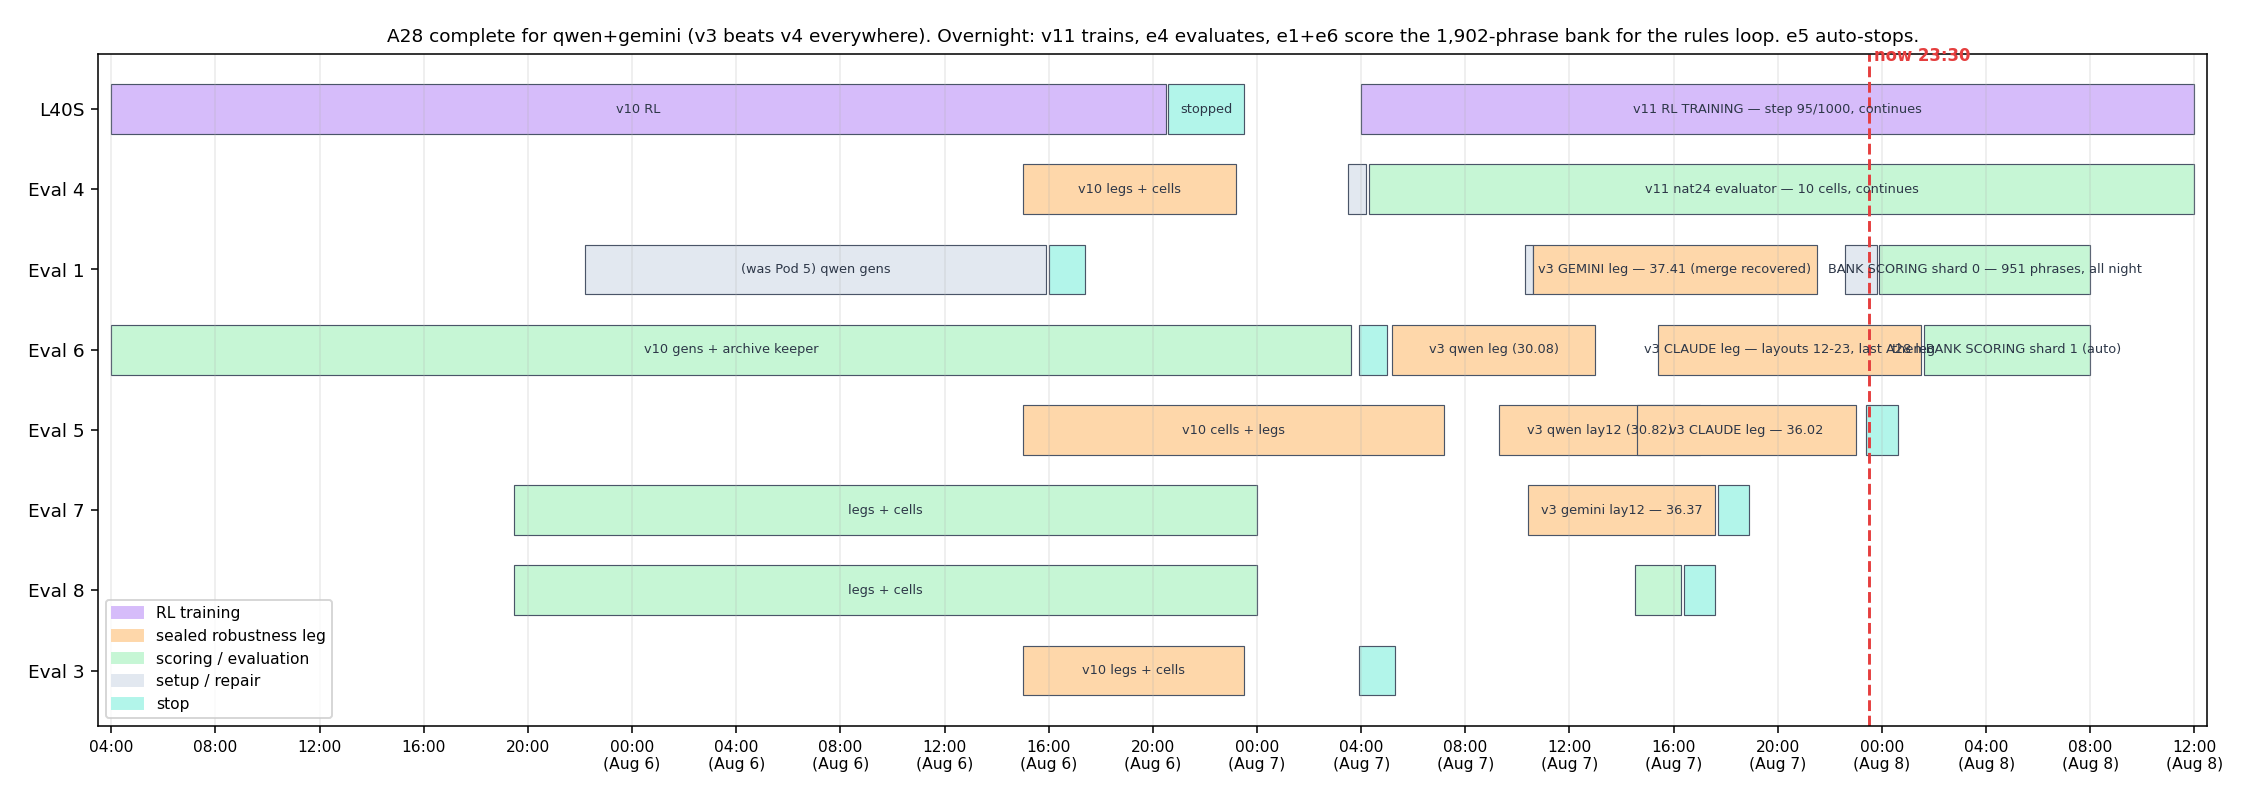
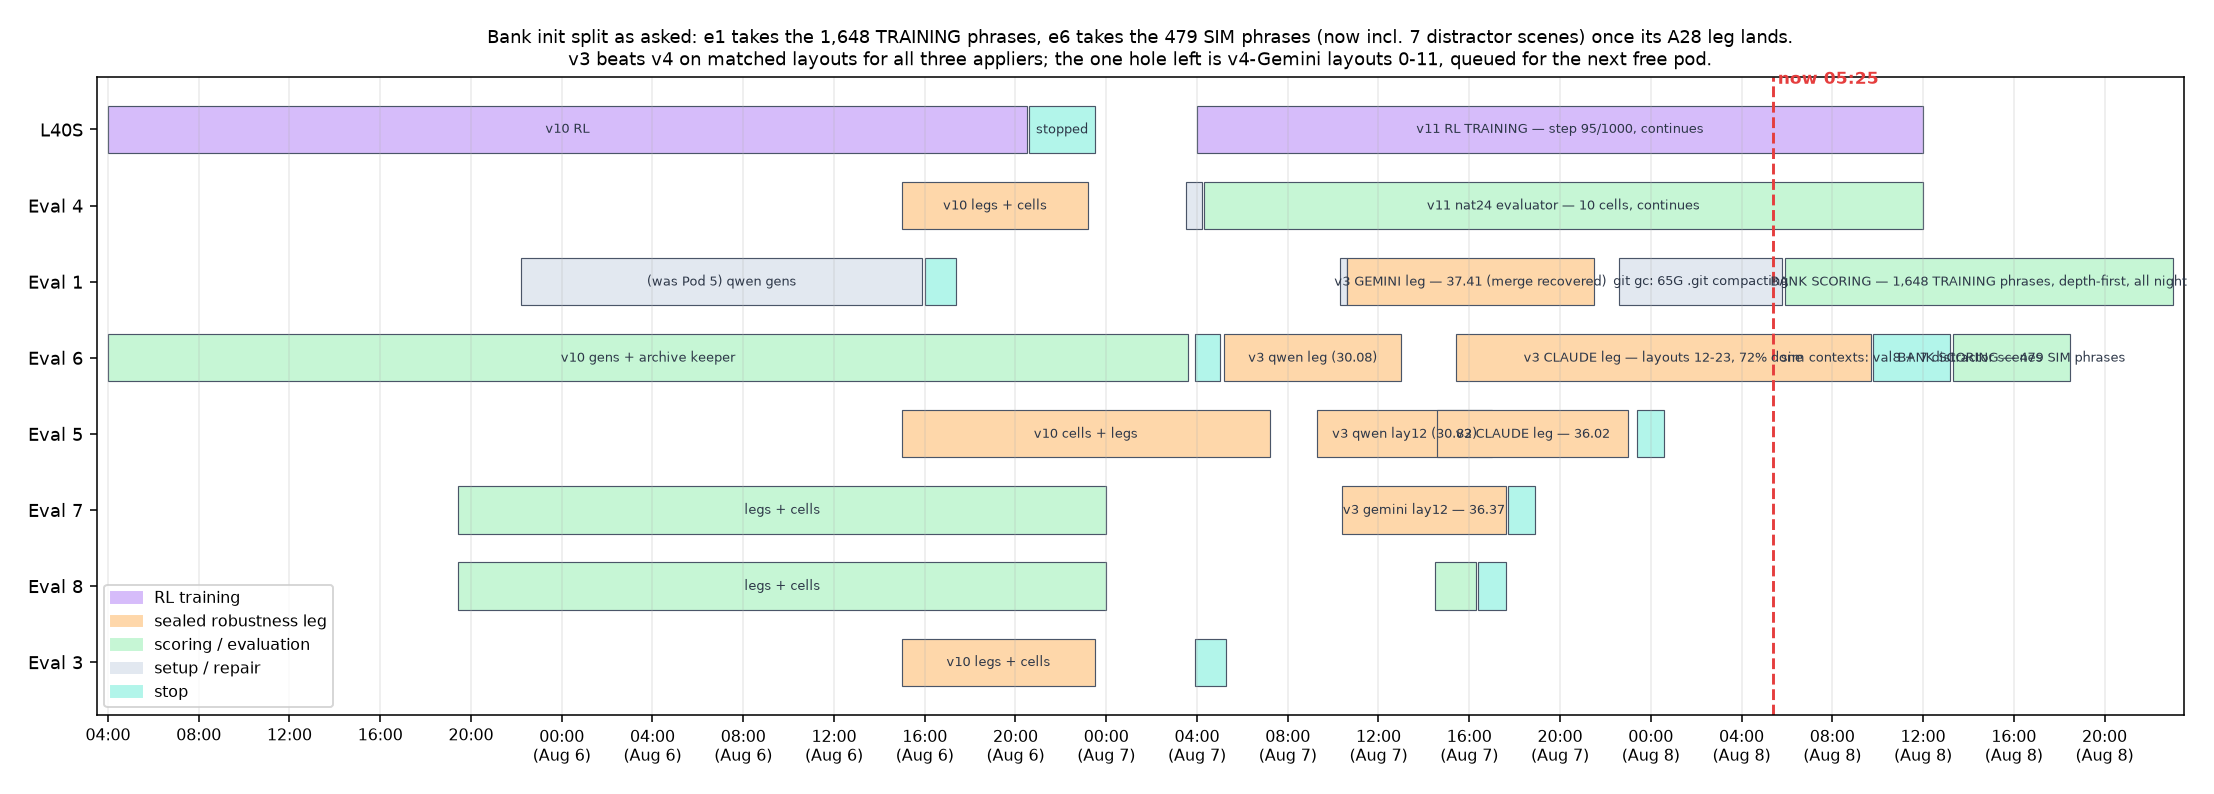
gantt: bank init split train/sim across e1 and e6, sim leg picks up the distractor scenes

diff --git a/scripts/make_fleet_gantt.py b/scripts/make_fleet_gantt.py
@@ -9,7 +9,7 @@ from matplotlib.patches import Patch
 
 C = {"sealed": "#a3bffa", "rr": "#fed7aa", "gen": "#b2f5ea",
      "train": "#d6bcfa", "worker": "#c6f6d5", "setup": "#e2e8f0"}
-NOW = 71.5  # 23:30 Aug 7 (hours from 00:00 Aug 5)
+NOW = 77.4  # 05:25 Aug 8 UTC (hours from 00:00 Aug 5)
 
 ROWS = [
     ("L40S",    [("v10 RL", 4.0, 44.5, "train"), ("stopped", 44.6, 47.5, "gen"),
@@ -19,16 +19,17 @@ ROWS = [
     ("Eval 1",  [("(was Pod 5) qwen gens", 22.2, 39.9, "setup"), ("retired", 40.0, 41.4, "gen"),
                  ("repair + disk rescue", 58.3, 58.6, "setup"),
                  ("v3 GEMINI leg — 37.41 (merge recovered)", 58.6, 69.5, "rr"),
-                 ("git gc: 24G archives + 47G .git", 70.6, 71.8, "setup"),
-                 ("BANK SCORING shard 0 — 951 phrases, all night", 71.9, 80.0, "worker")]),
+                 ("git gc: 65G .git compacting", 70.6, 77.8, "setup"),
+                 ("BANK SCORING — 1,648 TRAINING phrases, depth-first, all night", 77.9, 95.0, "worker")]),
     ("Eval 6",  [("v10 gens + archive keeper", 4.0, 51.6, "worker"), ("stopped", 51.9, 53.0, "gen"),
                  ("v3 qwen leg (30.08)", 53.2, 61.0, "rr"),
-                 ("v3 CLAUDE leg — layouts 12-23, last A28 leg", 63.4, 73.5, "rr"),
-                 ("then BANK SCORING shard 1 (auto)", 73.6, 80.0, "worker")]),
+                 ("v3 CLAUDE leg — layouts 12-23, 72% done", 63.4, 81.7, "rr"),
+                 ("sim contexts: val8 + 7 distractor scenes", 81.8, 85.2, "gen"),
+                 ("BANK SCORING — 479 SIM phrases", 85.3, 90.5, "worker")]),
     ("Eval 5",  [("v10 cells + legs", 39.0, 55.2, "rr"),
                  ("v3 qwen lay12 (30.82)", 57.3, 65.0, "rr"),
                  ("v3 CLAUDE leg — 36.02", 62.6, 71.0, "rr"),
-                 ("auto-stop (nothing left)", 71.4, 72.6, "gen")]),
+                 ("STOPPED (auto)", 71.4, 72.6, "gen")]),
     ("Eval 7",  [("legs + cells", 19.45, 48.0, "worker"),
                  ("v3 gemini lay12 — 36.37", 58.4, 65.6, "rr"), ("STOPPED", 65.7, 66.9, "gen")]),
     ("Eval 8",  [("legs + cells", 19.45, 48.0, "worker"),
@@ -44,20 +45,22 @@ for i, (pod, bars) in enumerate(ROWS):
         if e - s > 2.6:
             ax.text((s + e) / 2, y, label, ha="center", va="center", fontsize=6.6, color="#2d3748")
 ax.axvline(NOW, color="#e53e3e", lw=1.5, ls="--")
-ax.text(NOW + 0.2, len(ROWS) - 0.4, "now 23:30", color="#e53e3e", fontsize=8.5, fontweight="bold")
+ax.text(NOW + 0.2, len(ROWS) - 0.4, "now 05:25", color="#e53e3e", fontsize=8.5, fontweight="bold")
 ax.set_yticks(range(len(ROWS)))
 ax.set_yticklabels([p for p, _ in reversed(ROWS)], fontsize=9.5)
-ticks = list(range(4, 85, 4))
+ticks = list(range(4, 97, 4))
 ax.set_xticks(ticks)
-ax.set_xticklabels([f"{t % 24:02d}:00" + ("\n(Aug 6)" if 24 <= t < 48 else ("\n(Aug 7)" if 48 <= t < 72 else ("\n(Aug 8)" if t >= 72 else ""))) for t in ticks], fontsize=8)
-ax.set_xlim(3.5, 84.5)
+ax.set_xticklabels([f"{t % 24:02d}:00" + ("\n(Aug 6)" if 24 <= t < 48 else ("\n(Aug 7)" if 48 <= t < 72 else ("\n(Aug 8)" if 72 <= t < 96 else ""))) for t in ticks], fontsize=8)
+ax.set_xlim(3.5, 95.5)
 ax.grid(axis="x", alpha=0.25)
 ax.legend(handles=[Patch(color=C[k], label=l) for k, l in
                    [("train", "RL training"), ("rr", "sealed robustness leg"),
                     ("worker", "scoring / evaluation"), ("setup", "setup / repair"), ("gen", "stop")]],
           fontsize=8, loc="lower left")
-ax.set_title("A28 complete for qwen+gemini (v3 beats v4 everywhere). Overnight: v11 trains, e4 evaluates, "
-             "e1+e6 score the 1,902-phrase bank for the rules loop. e5 auto-stops.", fontsize=9.5)
+ax.set_title("Bank init split as asked: e1 takes the 1,648 TRAINING phrases, e6 takes the 479 SIM phrases "
+             "(now incl. 7 distractor scenes) once its A28 leg lands.\n"
+             "v3 beats v4 on matched layouts for all three appliers; the one hole left is v4-Gemini layouts 0-11, "
+             "queued for the next free pod.", fontsize=9.5)
 fig.tight_layout()
 fig.savefig("results/charts/fleet_gantt.png", dpi=140, bbox_inches="tight", pad_inches=0.2)
 print("chart -> results/charts/fleet_gantt.png")
